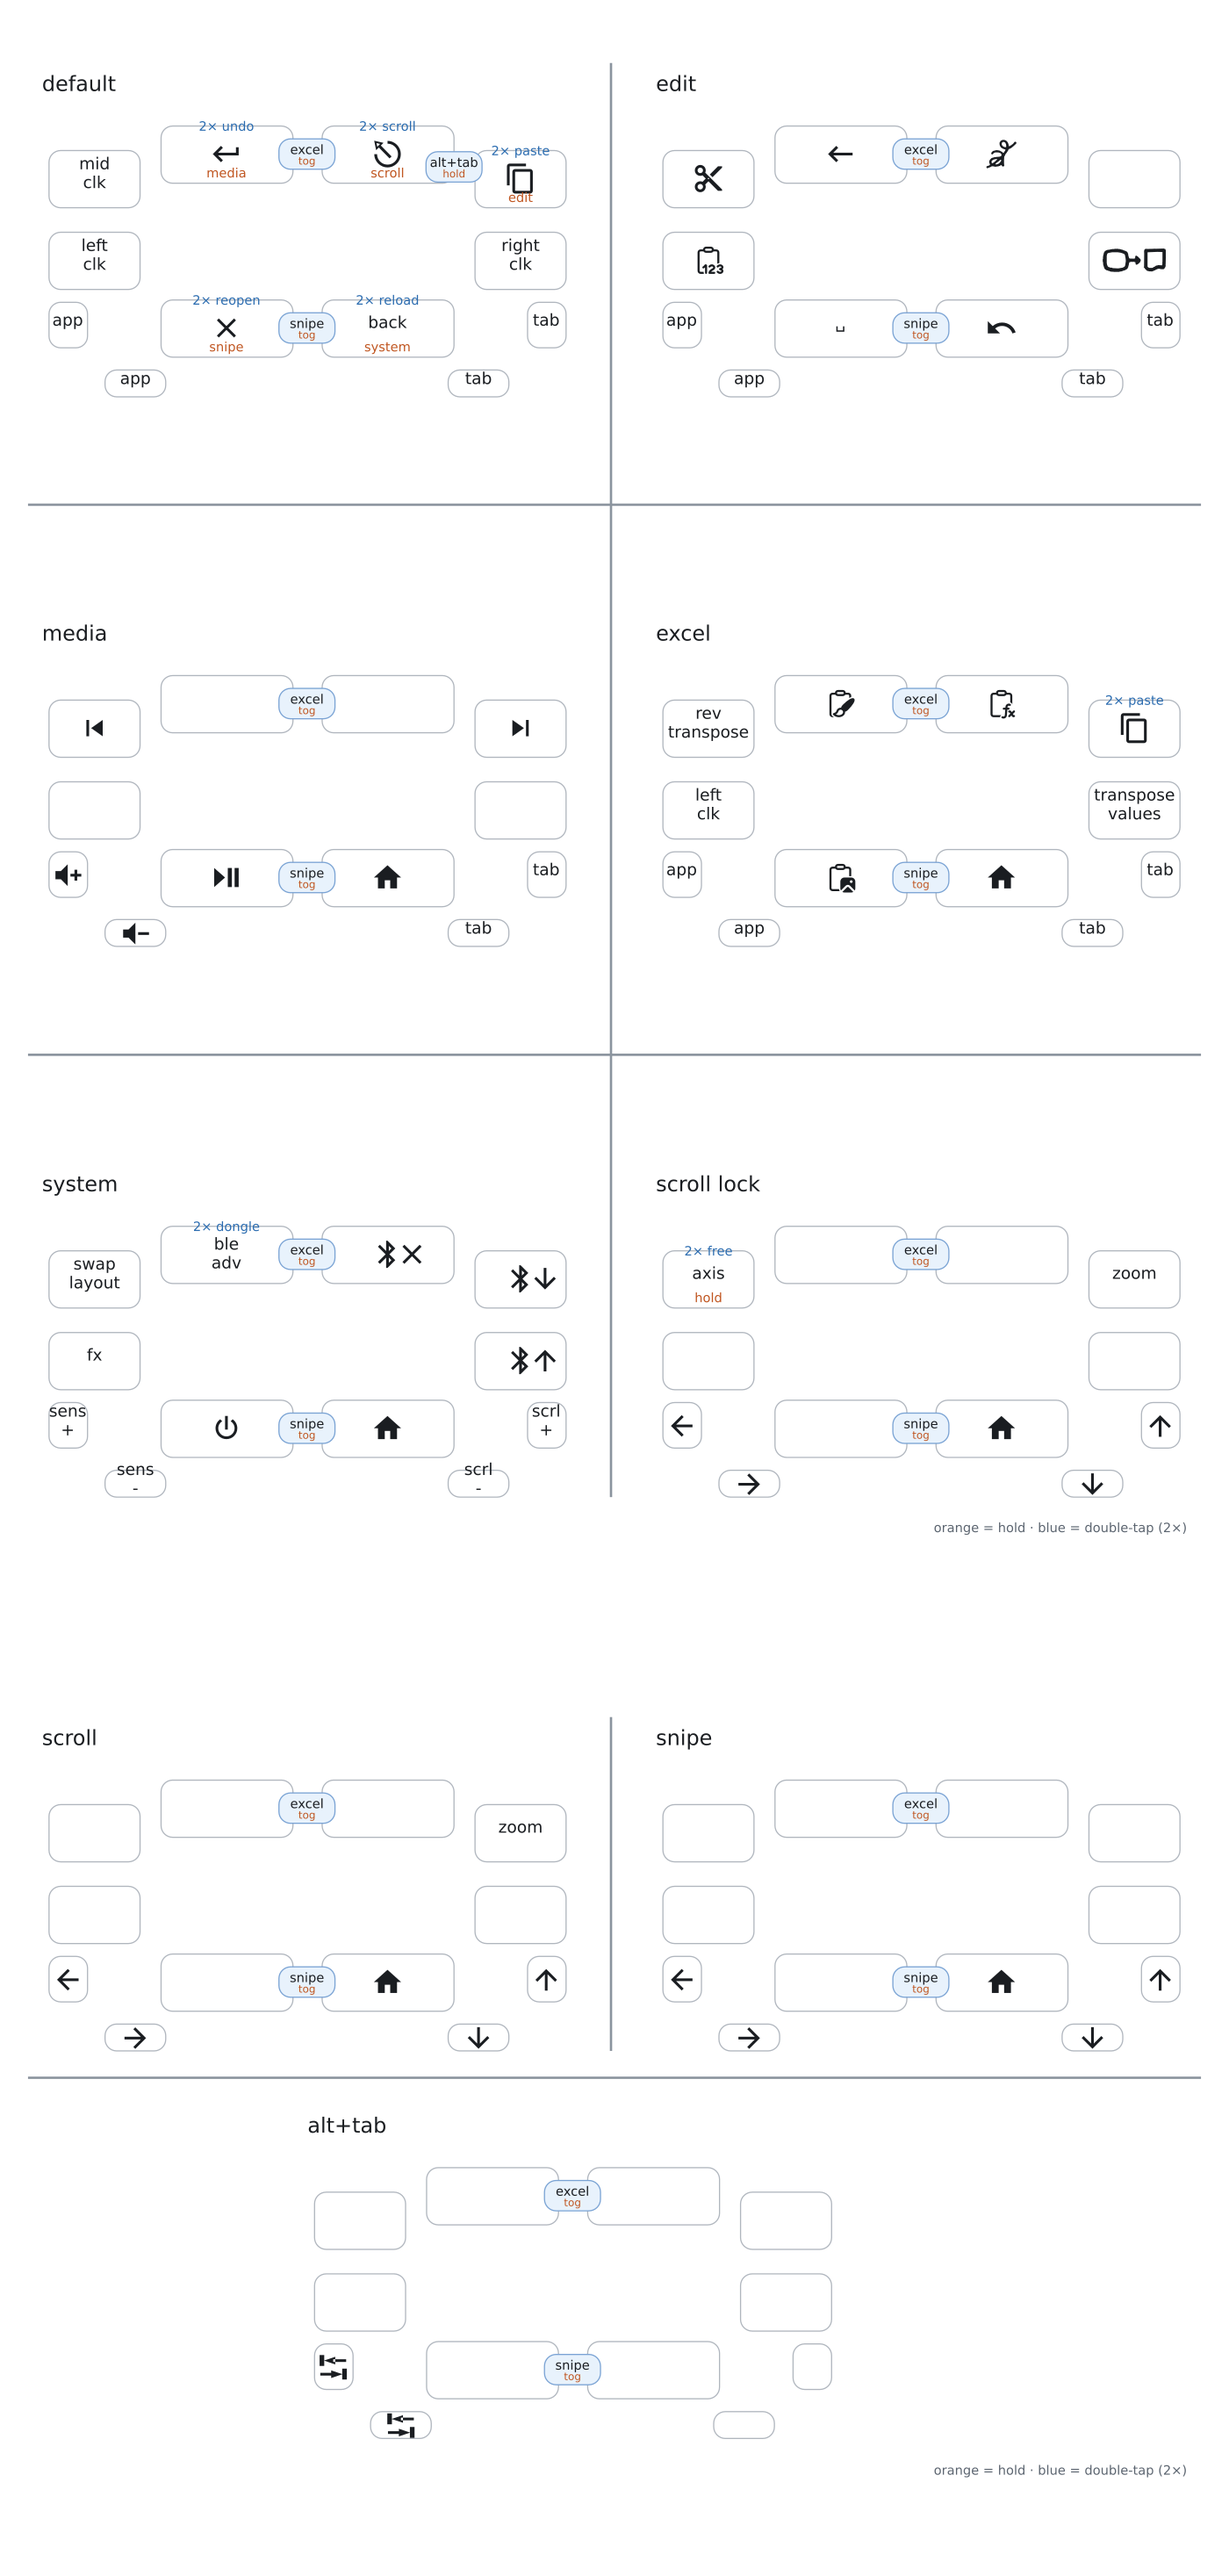
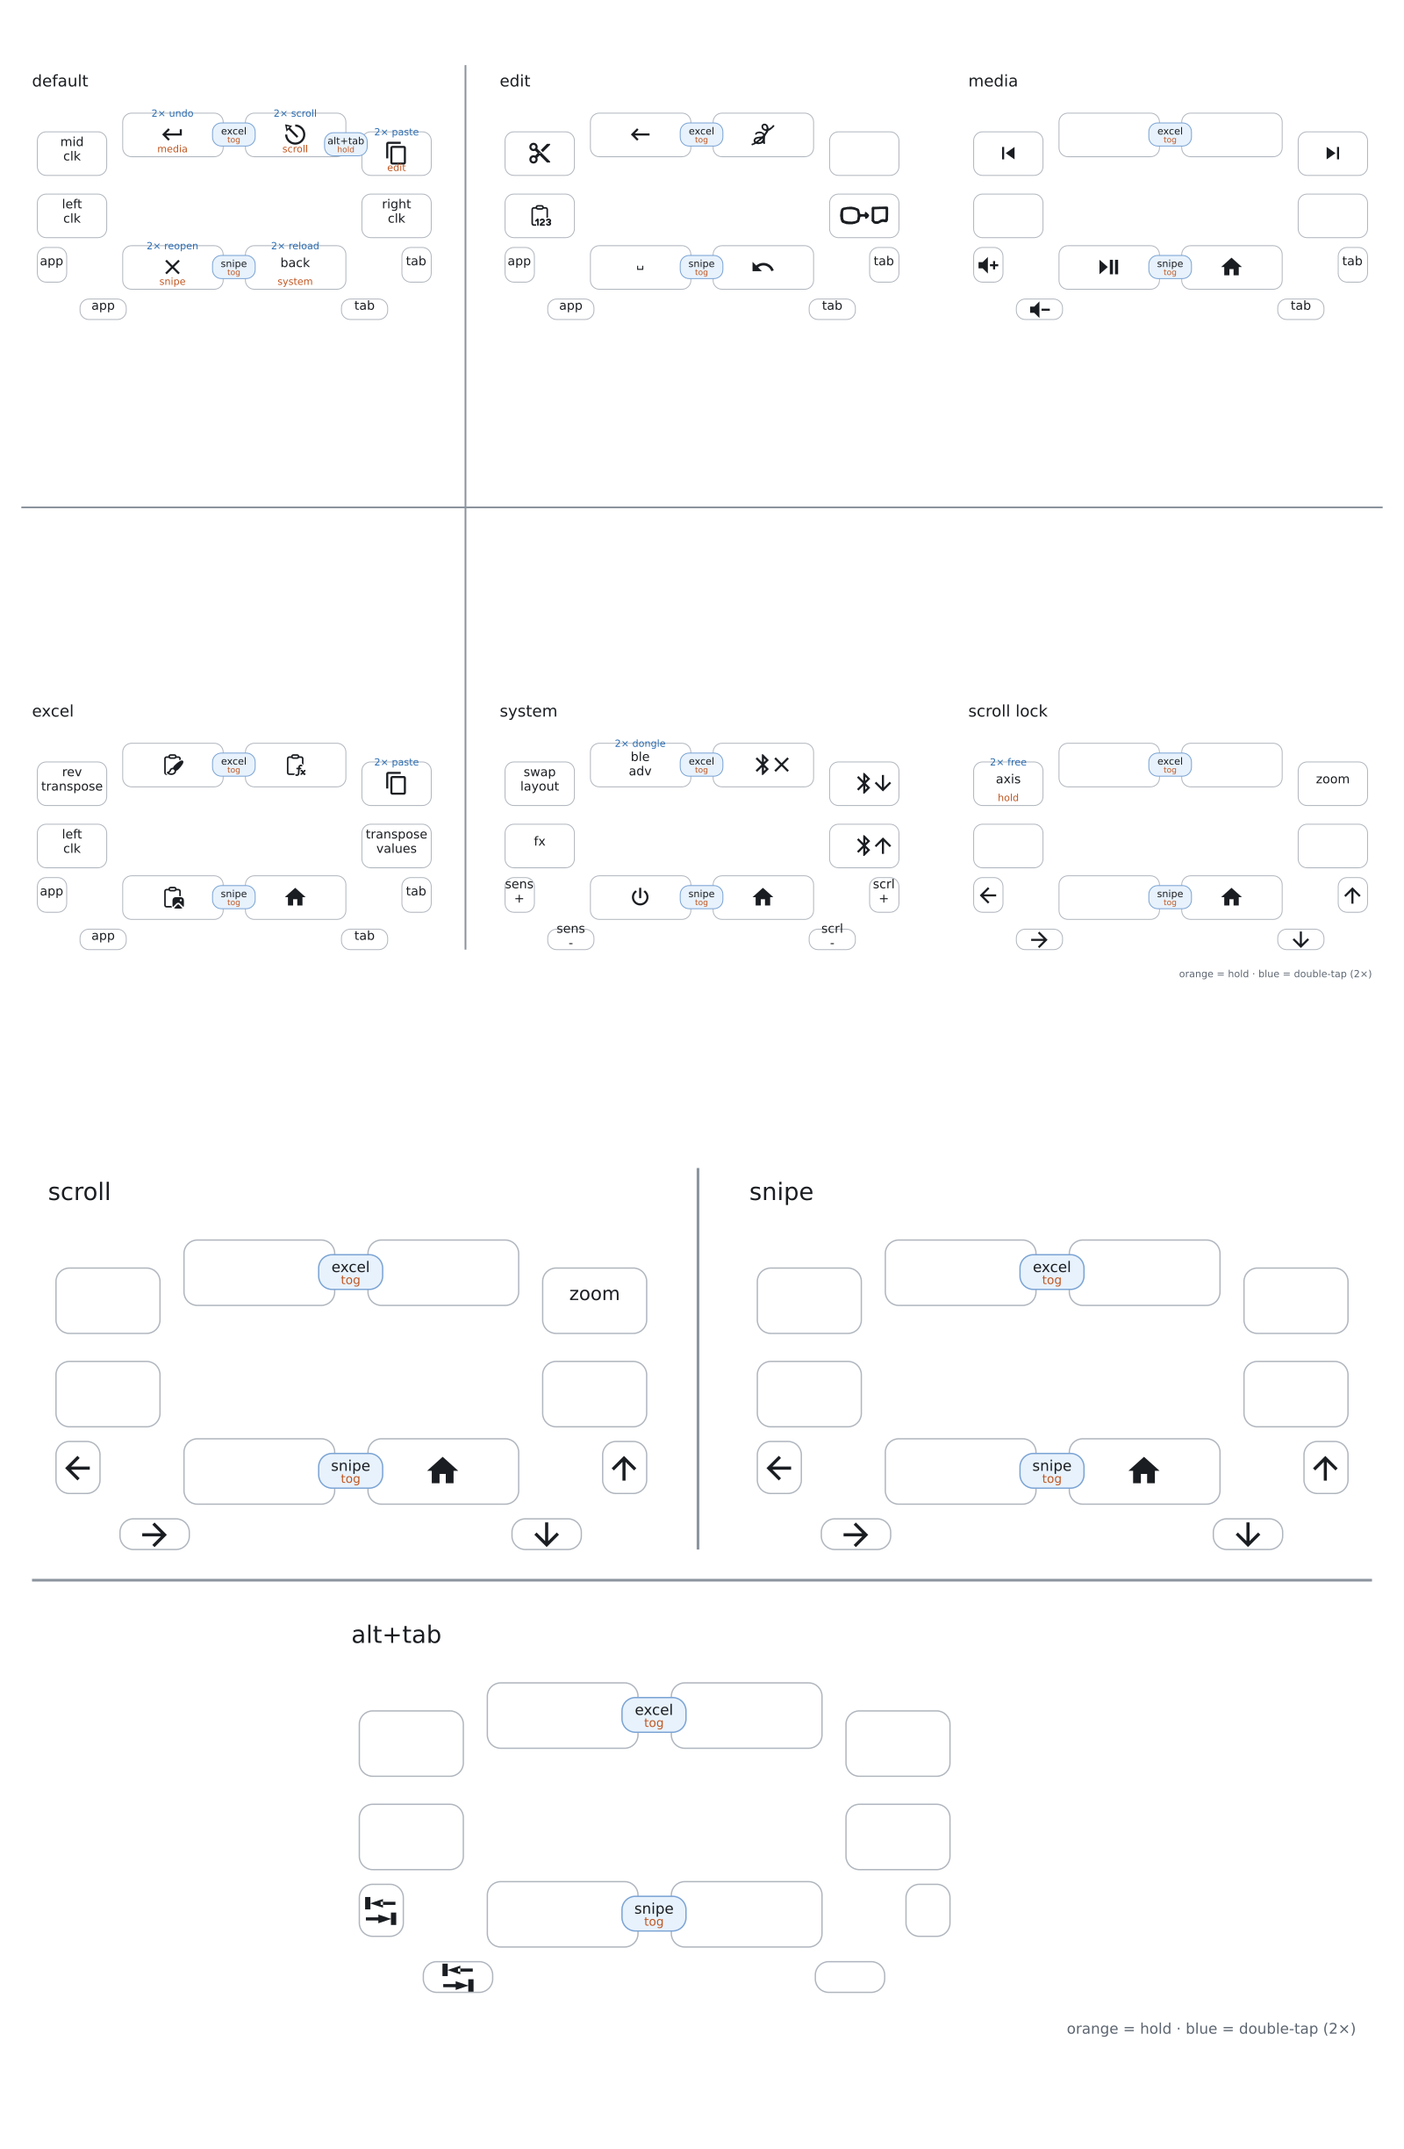
Print both keymap pages in landscape Letter
Page 1 uses a 3×2 grid padded to landscape aspect; page 2 stays the
scroll|snipe + centered alt+tab pyramid on landscape Letter.

diff --git a/keymap-drawer/postprocess_svg.py b/keymap-drawer/postprocess_svg.py
@@ -228,13 +228,18 @@ def _fit_letter_aspect(
     y_to_row = {y: i for i, y in enumerate(ys)}
 
     if current > aspect + 0.005:
-        # Too wide for portrait Letter — grow height to the Letter aspect.
+        # Too wide for the target Letter orientation — grow height.
         target_h = board_w / aspect
         extra = target_h - board_h
         n_gaps = max(len(ys) - 1, 0)
-        # 3+ rows (page 1): breathe between rows. 2 rows (page 2): keep the
-        # pair tight and pad top/bottom so we don't open a huge void.
-        if n_gaps >= 2:
+        # Full rectangular grids (e.g. 3×2 page 1): breathe between rows.
+        # Orphan pyramids (page 2): keep the pair tight and pad top/bottom.
+        by_y: dict[float, int] = {}
+        for m in _LAYER_RE.finditer(svg):
+            by_y[float(m.group(2))] = by_y.get(float(m.group(2)), 0) + 1
+        row_counts = [by_y[y] for y in ys]
+        full_grid = bool(row_counts) and len(set(row_counts)) == 1 and row_counts[0] >= 2
+        if n_gaps and full_grid:
             gap_extra = extra * 0.72
             pad_extra = extra - gap_extra
             per_gap = gap_extra / n_gaps

diff --git a/README.md b/README.md
@@ -14,4 +14,4 @@ The diagram above is generated from the keymap by [keymap-drawer](https://github
 
 Sources: [keymap.svg](keymap-drawer/keymap.svg) (page 1) · [keymap-page2.svg](keymap-drawer/keymap-page2.svg) (page 2) · [keymap.pdf](keymap-drawer/keymap.pdf)
 
-Layers are ordered by approximate complexity: page 1 (portrait) is default → edit → media → excel → system → scroll lock; page 2 (landscape) is scroll → snipe → alt+tab. Each GitHub release also includes a two-page US Letter `keymap-layout.pdf` of the same diagram.
+Layers are ordered by approximate complexity on two landscape US Letter pages: page 1 is default → edit → media → excel → system → scroll lock; page 2 is scroll → snipe → alt+tab. Each GitHub release also includes a two-page landscape `keymap-layout.pdf` of the same diagram.
